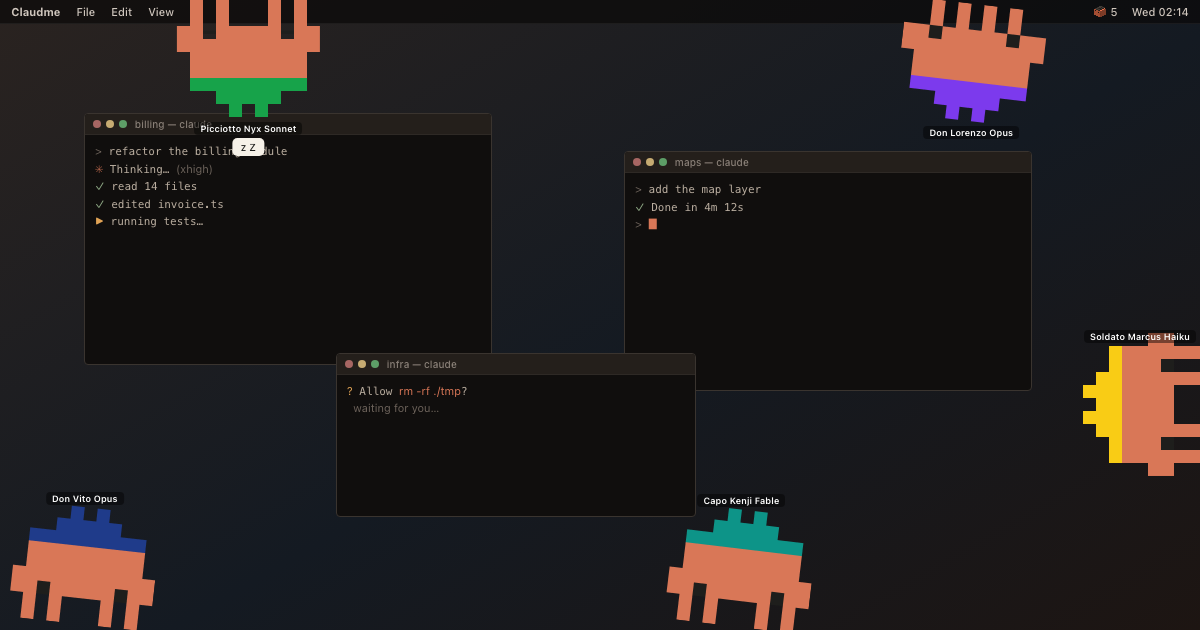
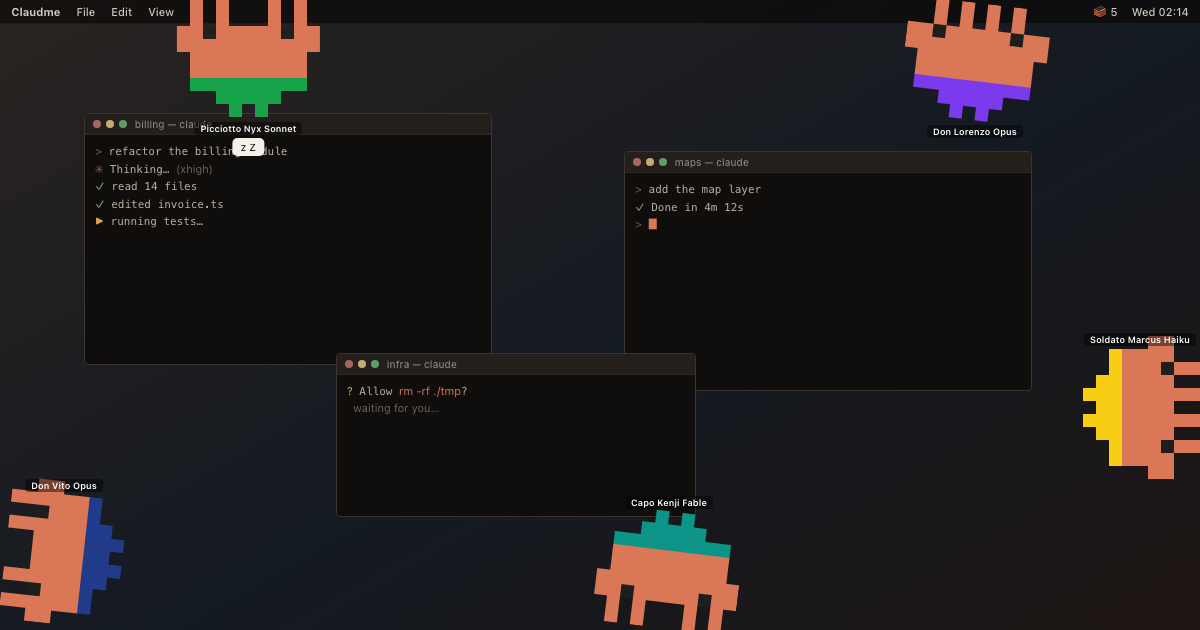
Keep the tripled crabs to the captures, not the site
They were sized up so they would read on a phone in a feed; at that size
they crowd the demo on the site itself. The raster now triples only
under ?promo and ?og.

diff --git a/docs/index.html b/docs/index.html
@@ -387,7 +387,7 @@
   }
   /* the credit lines now sit on the desktop itself */
   .deskcredit{
-    position:absolute;left:26px;bottom:76px;z-index:2;margin:0;max-width:none;
+    position:absolute;left:26px;bottom:34px;z-index:2;margin:0;max-width:none;
     white-space:nowrap;font:500 .7rem/1.7 var(--font);color:#6f6459;letter-spacing:.01em
   }
   .deskcredit a{color:#b0765c}
@@ -513,6 +513,7 @@
   body.promo .track > header > .wrap{padding:0;height:100%}
   body.promo .track > header .stage{margin:0;width:100%;margin-left:0;transform:none}
   body.promo .track > header .screen{height:100dvh;min-height:0}
+  body.promo .deskcredit,body.ogshot .deskcredit{bottom:76px}
   body.promo #promoReveal{
     position:fixed;inset:0;z-index:9500;background:#050404;pointer-events:none;
     opacity:1;transition:opacity .9s ease
@@ -878,10 +879,12 @@ open build/Claudme.app</pre>
 <script>
 (() => {
   // crabs scale with the stage — five 3px-grid crabs would swamp a phone
-  // Three times the old raster: at 4.5 a crab was ~50px on a 1500px screen and simply
-  // read as noise, both on the page and in the promo film. Phones get a smaller jump
-  // so the family doesn't swallow a 390px viewport.
-  const PX = innerWidth < 640 ? 6 : innerWidth < 900 ? 10 : 13;
+  // The film needs crabs big enough to read on a phone in a feed; the site does not —
+  // at that size they crowd the demo. So the raster is tripled only for the promo and
+  // share-card captures, and the site keeps the size it always had.
+  const BIG = /[?&](promo|og)=/.test(location.search);
+  const PX = BIG ? (innerWidth < 640 ? 6 : innerWidth < 900 ? 10 : 13)
+                 : (innerWidth < 640 ? 3 : innerWidth < 900 ? 3.5 : 4.5);
   const GRID_W = 11;
   const CRAB = '#d97757', INK = '#1e1e1c';
   const CAPS = ['#1f3b8a','#0d9488','#f9cc15','#7c3aed','#17a34a','#ec4899','#0ea5e9','#dc2626'];
